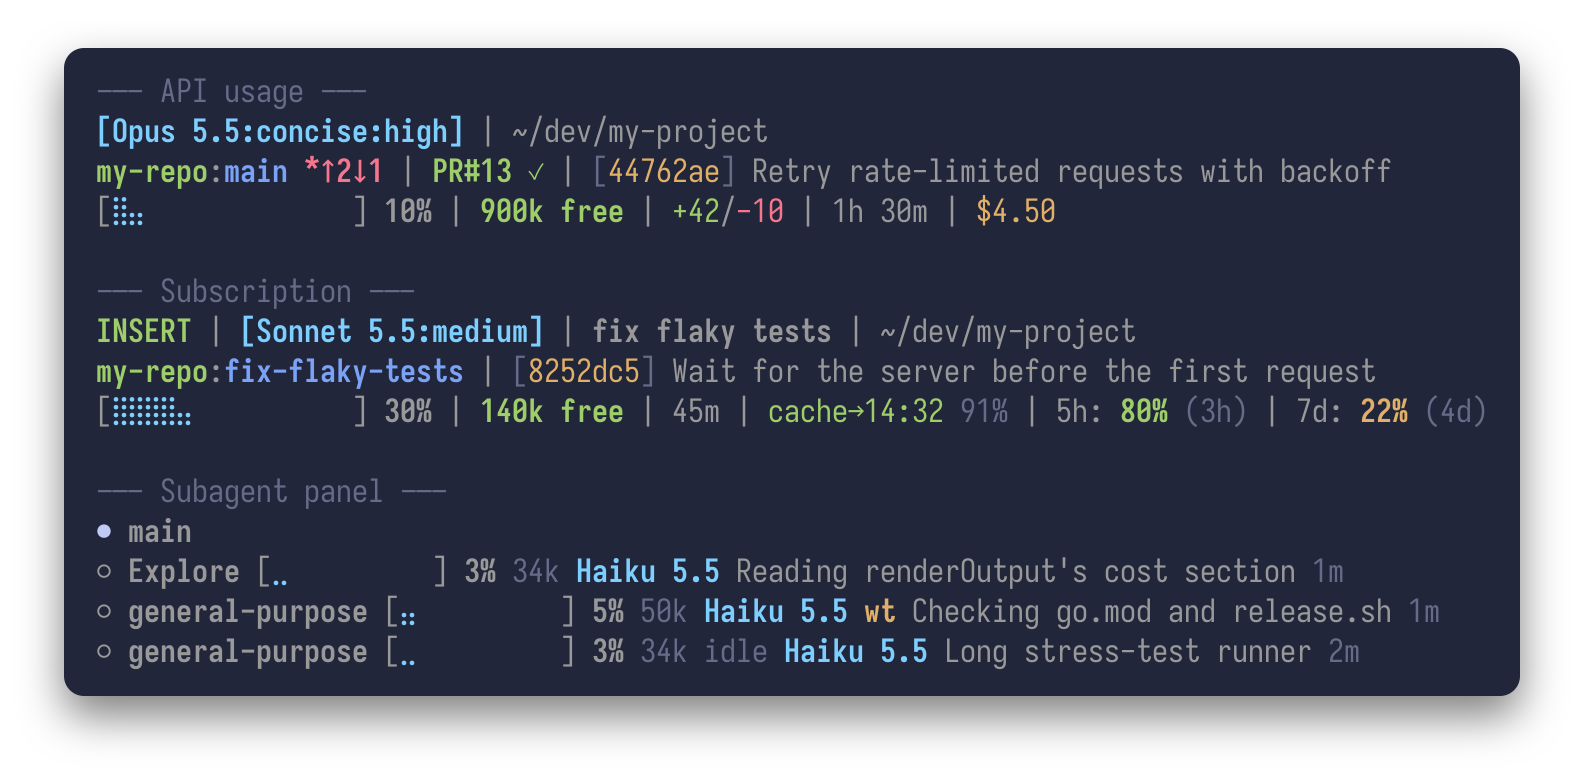
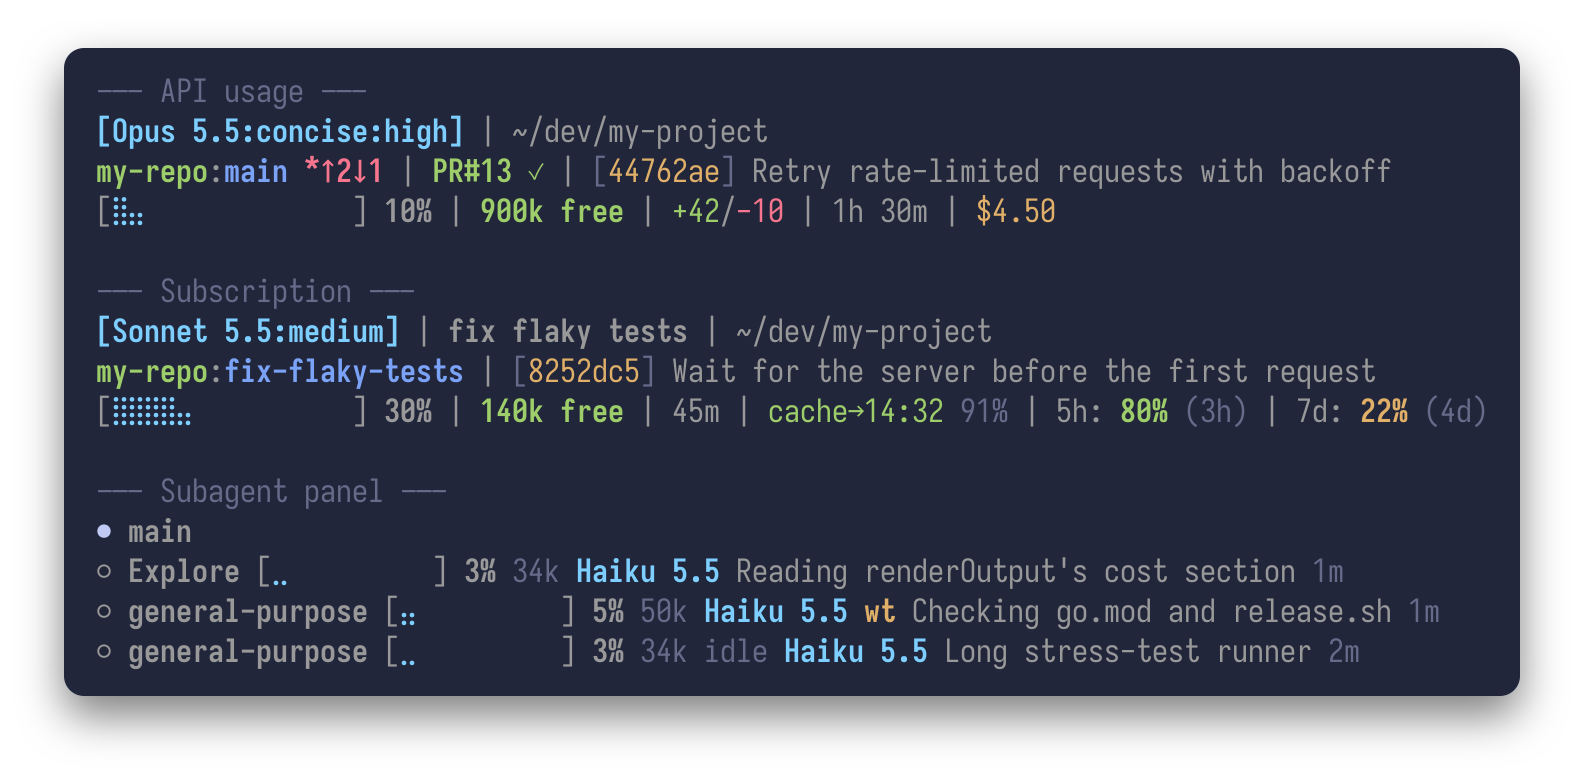
Remove the vim mode from the statusline (#45)
Claude Code prints the vim mode in its own line below the statusline
(`-- INSERT --`). Showing it at the start of line one as well repeated
it and cost up to fourteen columns, which matters most on narrow
terminals.

- The `vim` field of the payload is no longer read or rendered.
- The README drops the `hideVimModeIndicator` advice and the vim mode
from the description of line one.
- The subscription example in `scripts/screenshot.sh` loses its vim
mode, and `docs/screenshot.png` is regenerated. The missing `INSERT` is
the only difference in the image.

Anyone who set `hideVimModeIndicator` because of the old README advice
now sees no vim mode at all and has to remove that setting to get Claude
Code's indicator back.

Changed region(s): [[0.0619, 0.398, 0.7115, 0.4592]]

diff --git a/main_test.go b/main_test.go
@@ -945,7 +945,7 @@ func TestRepoIdentity(t *testing.T) {
 	})
 }
 
-func TestSessionAndVim(t *testing.T) {
+func TestSessionName(t *testing.T) {
 	t.Run("session name before dir", func(t *testing.T) {
 		in := defaultInput()
 		in.SessionName = "fix flaky tests"
@@ -989,12 +989,16 @@ func TestSessionAndVim(t *testing.T) {
 		}
 	})
 
-	t.Run("vim mode leads the line", func(t *testing.T) {
-		in := defaultInput()
-		in.Vim.Mode = "INSERT"
-		out := render(in, GitInfo{})
-		if !strings.HasPrefix(out, green+"INSERT"+reset+" | ") {
-			t.Errorf("expected INSERT first, got: %q", out)
+	t.Run("vim mode is left to Claude Code", func(t *testing.T) {
+		var in Input
+		payload := `{"model": {"display_name": "Sonnet 4"}, "vim": {"mode": "INSERT"}}`
+		if err := json.Unmarshal([]byte(payload), &in); err != nil {
+			t.Fatal(err)
+		}
+		for _, cols := range []int{0, 50, 120} {
+			if out := renderCols(in, GitInfo{}, cols); strings.Contains(out, "INSERT") {
+				t.Errorf("cols=%d: expected no vim mode, got: %q", cols, out)
+			}
 		}
 	})
 }
@@ -1080,7 +1084,7 @@ func TestLinesFitAnyWidth(t *testing.T) {
 		for _, dir := range dirs {
 			for _, wt := range worktrees {
 				in := defaultInput()
-				in.Vim.Mode = "INSERT"
+				in.Effort.Level = "medium"
 				in.SessionName = name
 				in.Workspace.CurrentDir = dir
 				in.Workspace.GitWorktree = wt
@@ -1328,7 +1332,6 @@ func TestInputSanitize(t *testing.T) {
 		"output_style": {"name": "con\u001bcise"},
 		"agent": {"name": "re\nviewer"},
 		"effort": {"level": "hi\u0000gh"},
-		"vim": {"mode": "NOR\u001bMAL"},
 		"prompt_cache": {"last_miss_cause": {"causes": ["tools\u001b_changed"]}}
 	}`
 	var in Input
@@ -1340,13 +1343,13 @@ func TestInputSanitize(t *testing.T) {
 	got := []string{
 		in.Model.DisplayName, in.SessionName, in.Workspace.CurrentDir, in.Workspace.GitWorktree,
 		in.Workspace.Repo.Host, in.Workspace.Repo.Owner, in.Workspace.Repo.Name,
-		in.OutputStyle.Name, in.Agent.Name, in.Effort.Level, in.Vim.Mode,
+		in.OutputStyle.Name, in.Agent.Name, in.Effort.Level,
 		in.PromptCache.LastMissCause.Causes[0],
 	}
 	want := []string{
 		"Claude[31m Opus", "]0;titlename next", "/home/user/a b", "wt2J",
 		"github.com", "o wner", "name",
-		"concise", "re viewer", "high", "NORMAL",
+		"concise", "re viewer", "high",
 		"tools_changed",
 	}
 	for i := range want {

diff --git a/main.go b/main.go
@@ -31,7 +31,6 @@ type Input struct {
 	PR            *PRInfo       `json:"pr"`
 	RateLimits    *RateLimits   `json:"rate_limits"`
 	PromptCache   *PromptCache  `json:"prompt_cache"`
-	Vim           VimInfo       `json:"vim"`
 	SessionName   string        `json:"session_name"`
 	Exceeds200k   bool          `json:"exceeds_200k_tokens"`
 	FastMode      bool          `json:"fast_mode"`
@@ -63,12 +62,6 @@ type PromptCache struct {
 // miss, e.g. tools_changed, system_prompt_changed, ttl_expired_5m.
 type MissCause struct {
 	Causes []string `json:"causes"`
-}
-
-// VimInfo carries the vim mode (NORMAL, INSERT, VISUAL, VISUAL LINE), absent
-// unless vim mode is enabled.
-type VimInfo struct {
-	Mode string `json:"mode"`
 }
 
 type RateWindow struct {
@@ -231,7 +224,6 @@ func (in *Input) sanitize() {
 		&in.OutputStyle.Name,
 		&in.Agent.Name,
 		&in.Effort.Level,
-		&in.Vim.Mode,
 		&in.SessionName,
 	}
 	if pc := in.PromptCache; pc != nil && pc.LastMissCause != nil {
@@ -610,27 +602,12 @@ func nameAndPathWidths(free int, name, path string) (nameLen, pathLen int) {
 	return nameLen, pathLen
 }
 
-func vimModeColor(mode string) string {
-	switch mode {
-	case "INSERT":
-		return green
-	case "NORMAL":
-		return blue
-	default: // VISUAL, VISUAL LINE
-		return magenta
-	}
-}
-
 func renderOutput(w io.Writer, input Input, git GitInfo, now time.Time, homeDir, sandbox string, cols int) {
 
-	// ── Line 1: sbx[id] | MODE | [Model:style:effort] | fast | @agent | name | dir ──
+	// ── Line 1: sbx[id] | [Model:style:effort] | fast | @agent | name | dir ──
 	var line strings.Builder
 	if sandbox != "" {
 		line.WriteString(yellow + sandbox + reset + " | ")
-	}
-
-	if mode := input.Vim.Mode; mode != "" {
-		line.WriteString(vimModeColor(mode) + mode + reset + " | ")
 	}
 
 	chip := strings.TrimPrefix(input.Model.DisplayName, "Claude ")

diff --git a/README.md b/README.md
@@ -11,7 +11,7 @@
 
 A fast, dependency-free Go binary that renders a rich statusline for [Claude Code](https://docs.anthropic.com/en/docs/claude-code). Reimplemented from the original bash script by [jezweb/claude-skills](https://github.com/jezweb/claude-skills).
 
-![Three example renderings in a terminal window. Two statuslines, each with the model chip and directory on the first line, repo, branch and commit on the second, and context bar and metrics on the third: API usage with a pull request and session cost, and a subscription with vim mode, session name, prompt cache and rate limits. Below them, the subagent panel with three rows that carry their own context bars, token counts, model names, an idle marker and a worktree marker](docs/screenshot.png)
+![Three example renderings in a terminal window. Two statuslines, each with the model chip and directory on the first line, repo, branch and commit on the second, and context bar and metrics on the third: API usage with a pull request and session cost, and a subscription with session name, prompt cache and rate limits. Below them, the subagent panel with three rows that carry their own context bars, token counts, model names, an idle marker and a worktree marker](docs/screenshot.png)
 
 ## Why?
 
@@ -95,8 +95,6 @@ Then configure in `~/.claude/settings.json`:
 }
 ```
 
-If you use [vim mode](https://code.claude.com/docs/en/interactive-mode#vim-editor-mode), add `"hideVimModeIndicator": true` to `statusLine`. The statusline shows the mode itself, so it isn't shown twice.
-
 To also replace the rows in the [subagent panel](#subagent-panel), add:
 
 ```json
@@ -144,7 +142,7 @@ my-repo:main | [abc1234] Last commit message
 [⣿⣿⣤            ] 10% | 900k free | +42/-10 | 1h 30m | 5h: 80% (3h) | 7d: 55% (4d)
 ```
 
-- **Line 1** (session): Sandbox indicator (`sbx[vm-id]` when running inside an agent sandbox, detected via `SANDBOX_VM_ID`/`IS_SANDBOX`), vim mode, model, output style, reasoning effort, fast mode, agent, session name, working directory (`~` for home, left-truncated to fit)
+- **Line 1** (session): Sandbox indicator (`sbx[vm-id]` when running inside an agent sandbox, detected via `SANDBOX_VM_ID`/`IS_SANDBOX`), model, output style, reasoning effort, fast mode, agent, session name, working directory (`~` for home, left-truncated to fit)
 - **Line 2** (git): Repo (linked to its web page), branch, dirty/ahead/behind, pull request (linked), commit hash + message, worktree — skipped outside git repos
 - **Line 3** (metrics): Context bar, percentage (with `!` warning above 200k tokens), free tokens, lines changed, duration, prompt cache with hit ratio and recent misses, cost (API) or rate limits with reset countdown (subscribers), spend limit (Claude apps gateway)
 
